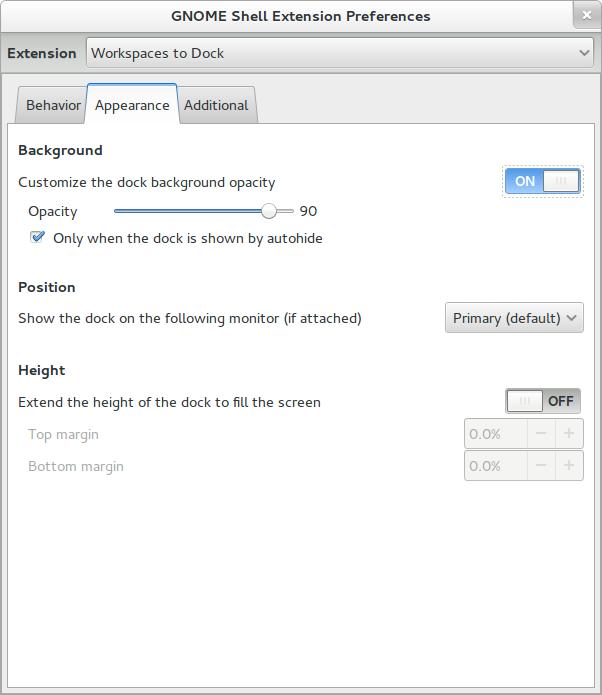
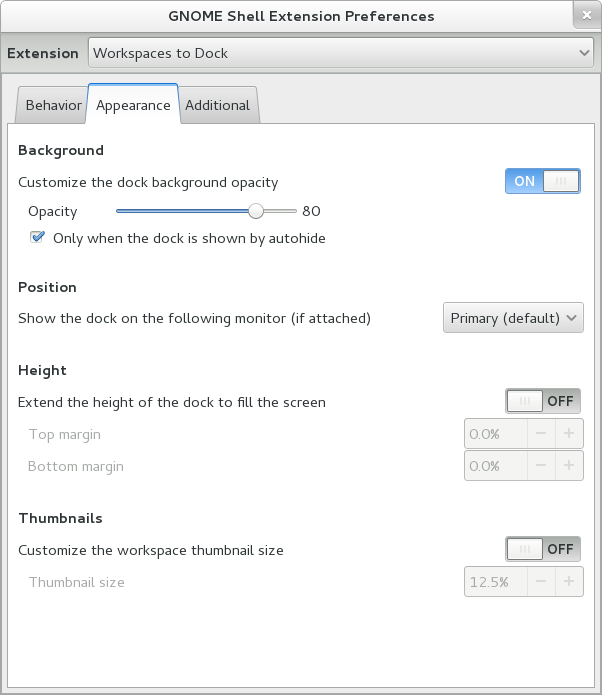
Updated readme and screenshots.

diff --git a/README.md b/README.md
@@ -15,7 +15,7 @@ If you would rather install it manually, download the releases branch on Github 
     $unzip workspaces-to-dock@passingthru67.gmail.com.zip -d ~/.local/share/gnome-shell/extensions/workspaces-to-dock@passingthru67.gmail.com
 
 or
-     
+
     Gnome Tweak tool --> Shell Extensions --> Install from zip file --> choose the zip file.
 
 If you're checking out code from the master branch (downloaded as zip or tar.gz), you will find an installation zip file inside with the latest updates and fixes. The version number is 0 signifying it is not a release version. The zip file can be extracted manually to the extensions folder or installed by using the Gnome Tweak tool as described above.
@@ -87,6 +87,12 @@ Appearance Settings:
 
     **Bottom margin** - Allows setting a bottom margin for the extended dock. The range allowed is 0% to 15% of the screen height.
 
+- **Thumbnails:**
+
+    **Customize the workspace thumbnail size** - Option to customize the maximum thumbnail size.
+
+    **Thumbnail size** - The custom value for the maximum thumbnail size. The range allowed is 10% to 25% of the screen size.
+
 
 Additional Settings:
 --------------------
@@ -110,7 +116,7 @@ Additional Settings:
     **Show workspace window count** - When enabled, the workspace window count is shown in the caption. It can be expanded to take up available space or its position can be adjusted using the arrow buttons. There is also an option to use images in place of numeric text.
 
     **Show workspace taskbar (apps)** - When enabled, the workspace taskbar is shown in the caption. The taskbar displays the icons of applications running on the workspace. It can be expanded to take up available space or its position can be adjusted using the arrow buttons. There is also an option to use large app icons. When the taskbar app icon is left-clicked, the application is brought into focus or minimized if it's already in focus. Right-clicking will bring up the caption popup menu shown above.
-    
+
     **Show a spacer/filler** - When enabled, a spacer is inserted in the caption. It can be expanded to take up available space or its position can be adjusted using the arrow buttons.
 
 Below are examples of the workspace (thumbnail) caption in various configurations
@@ -177,10 +183,11 @@ If the problem persists, please report it by opening an issue on github or with 
 
 Change Log:
 -----------
-**version 12 (Sept 2, 2013)**
+**version 12 (Sept 3, 2013)**
 
 - RTL support added
 - Option to require mouse pressure to activate and show dock (feature)
+- Option to customize the thumbnail size (feature)
 - Ability to use keyboard shortcut to toggle dock (feature)
 - Redesigned preferences window
 - Bug fixes
@@ -217,7 +224,7 @@ Change Log:
 - Bug fixes
 - Show workspaces dock on Dash-To-Dock hover (feature)
 
-    Dash-To-Dock hover shows the workspaces dock when hovering over the dash-to-dock extension (if you've got it installed). 
+    Dash-To-Dock hover shows the workspaces dock when hovering over the dash-to-dock extension (if you've got it installed).
     Extremely useful in cases where your workspaces dock is hidden and you want to open a new app from the dash. Rather than going into overview just to see your workspaces, hover over the dash-to-dock extension. The workspaces dock will show to the right. Use the dash-to-dock scroll to go to the appropriate workspace.
 
 **version 6 (Oct 26, 2012)**
